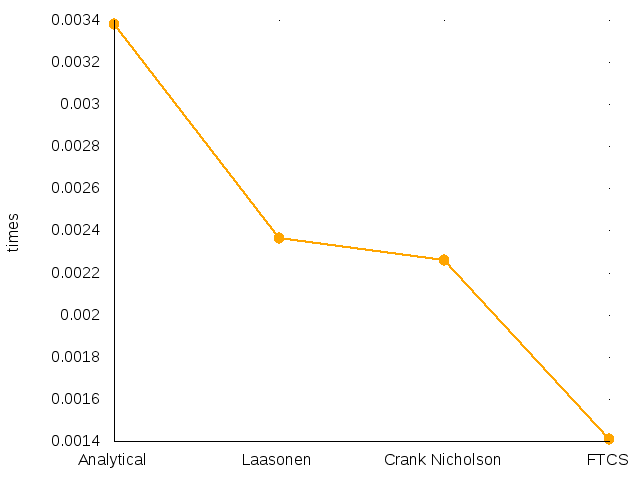
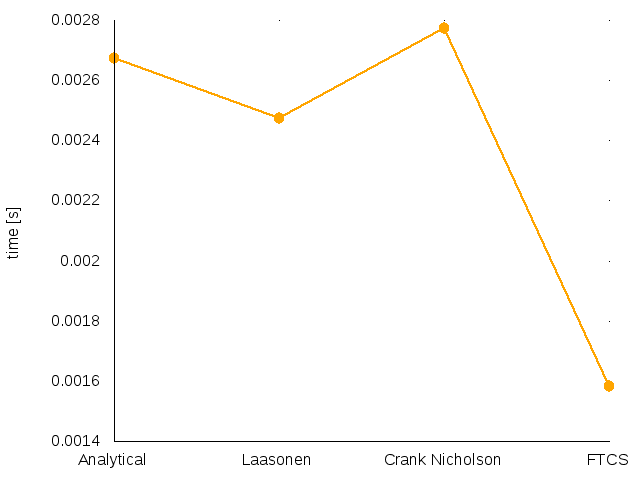
makefiled was modified, results are exported at once

diff --git a/src/main.cpp b/src/main.cpp
@@ -11,34 +11,40 @@
 */
 int main(int argc, char * argv[]) {
 
-	IOManager io_manager;
-	Problem * default_problem = new Problem(DELTA_T, DELTA_X);
-	MPImanager * mpi_manager = new MPImanager(default_problem->get_xsize() - 1);
-
+	MPImanager * mpi_manager = new MPImanager();
 	mpi_manager->initialize(&argc, &argv);
-	size_t lower = mpi_manager->lower_bound(), upper = mpi_manager->upper_bound();
 
-	Analytical * analytical = new Analytical(*default_problem);
-	FTCS * ftcs = new FTCS(*default_problem);
-	Laasonen * laasonen = new Laasonen(*default_problem);
-	CrankNicolson * crank_nicolson = new CrankNicolson(*default_problem);
+	for (size_t i = 0; i < 2; i++) {
 
-	std::vector<Method*> solutions = {analytical, laasonen, crank_nicolson, ftcs};
+		IOManager io_manager;
+		Problem * default_problem = new Problem(DELTA_T[i], DELTA_X[i]);
 
-	for (size_t index = 0; index < solutions.size(); index++) {
-		solutions[index]->compute(mpi_manager, index);
+		mpi_manager->set_size(default_problem->get_xsize() - 1);
+		size_t lower = mpi_manager->lower_bound(), upper = mpi_manager->upper_bound();
+
+		Analytical * analytical = new Analytical(*default_problem);
+		FTCS * ftcs = new FTCS(*default_problem);
+		Laasonen * laasonen = new Laasonen(*default_problem);
+		CrankNicolson * crank_nicolson = new CrankNicolson(*default_problem);
+
+		std::vector<Method*> solutions = {analytical, laasonen, crank_nicolson, ftcs};
+
+		for (size_t index = 0; index < solutions.size(); index++) {
+			solutions[index]->compute(mpi_manager, index);
+		}
+
+		if (mpi_manager->is_root()) {
+			std::cout << "Collecting results." << std::endl;
+			mpi_manager->collect_results(solutions);
+			io_manager.export_analytical(solutions[0]);
+			std::vector<Method*> methods(solutions.begin() + 1, solutions.end());
+			io_manager.export_outputs(solutions[0], methods, mpi_manager->get_number_processes());
+		} else {
+			std::cout << "Sending results." << std::endl;
+			mpi_manager->send_results();
+		}
+
 	}
-
-	/*if (mpi_manager->is_root()) {
-		std::cout << "Collecting results." << std::endl;
-		mpi_manager->collect_results(solutions);
-		io_manager.export_analytical(solutions[0]);
-		std::vector<Method*> methods(solutions.begin() + 1, solutions.end());
-		io_manager.export_outputs(solutions[0], methods, mpi_manager->get_number_processes());
-	} else {
-		std::cout << "Sending results." << std::endl;
-		mpi_manager->send_results();
-	}*/
 
 	mpi_manager->finalize();
 

diff --git a/src/io/iomanager.cpp b/src/io/iomanager.cpp
@@ -97,7 +97,7 @@ void IOManager::plot_times(std::string output_name, Method * analytical, std::ve
 
 	std::string deltat_string = double_to_string(3, methods[0]->get_deltat());
 
-	gp << "set tics scale 0; set border 3; set style line 1 lc rgb '#FFA500' lt 1 lw 2 pt 7 pi -1 ps 1.5; set clip two; set ylabel \"times\";set xlabel \"\"; set term png; set xtics (\"Analytical\" 0, \"Laasonen\" 1, \"Crank Nicholson\" 2, \"FTCS\" 3)\n";
+	gp << "set tics scale 0; set border 3; set style line 1 lc rgb '#FFA500' lt 1 lw 2 pt 7 pi -1 ps 1.5; set clip two; set ylabel \"time [s]\";set xlabel \"\"; set term png; set xtics (\"Analytical\" 0, \"Laasonen\" 1, \"Crank Nicholson\" 2, \"FTCS\" 3)\n";
 	gp << "set output \"" << output_path << "/times" << number_processes << "dt=" << deltat_string << ".png\";\n";
 	gp << "plot" << gp.file1d(times) << " notitle with linespoint ls 1" << std::endl;
 }

diff --git a/src/mpi/mpimanager.cpp b/src/mpi/mpimanager.cpp
@@ -1,15 +1,16 @@
 #include "mpimanager.h"
 
 
-MPImanager::MPImanager(size_t size) {
-	this->size = size;
-}
+MPImanager::MPImanager() {}
 
 void MPImanager::initialize(int *argc, char ** argv[]) {
 	MPI_Init(argc, argv);
 	MPI_Comm_size(MPI_COMM_WORLD, &number_processes);
 	MPI_Comm_rank(MPI_COMM_WORLD, &rank);
+}
 
+void MPImanager::set_size(size_t size) {
+	this->size = size;
 	size_t lower = lower_bound(), upper = upper_bound();
 	sub_matrices = alloc3d(SOLUTIONS_NR, (NUMBER_TIME_STEPS - 1), (upper - lower + 1));
 }
@@ -81,7 +82,7 @@ void MPImanager::send_results() {
 			}
 		}
 	}
-	
+
 	MPI_Send(buffer, count, MPI_DOUBLE, 0, rank, MPI_COMM_WORLD);
 }
 

diff --git a/src/variants/utils.h b/src/variants/utils.h
@@ -5,8 +5,8 @@
 #include <string> // string usage
 #include <vector>
 
-const double DELTA_T = 0.001; /**< Macro double. The default time step. */
-const double DELTA_X = 0.005; /**< Macro double. The default space step. */
+const double DELTA_T[2] = { 0.01, 0.001 }; /**< Macro double. The default time step. */
+const double DELTA_X[2] = { 0.05, 0.005 }; /**< Macro double. The default space step. */
 
 const std::vector<double> DELTA_T_LASSONEN = {0.01, 0.025, 0.05, 0.1}; /**< Macro double. Time steps to study in Laasonen Implicit Scheme. */
 

diff --git a/src/mpi/mpimanager.h b/src/mpi/mpimanager.h
@@ -15,7 +15,7 @@ private:
 	double *** sub_matrices;
 	
 public:
-	MPImanager(size_t size);
+	MPImanager();
 	void initialize(int *argc, char ** argv[]);
 	void finalize();
 	int get_rank();
@@ -26,6 +26,7 @@ public:
 	size_t lower_bound();
 	size_t upper_bound();
 	void add_sub_matrix(size_t i, double ** sub_matrix);
+	void set_size(size_t size);
 
 	void collect_results(vector<Method*> &solutions);
 	void send_results();

diff --git a/src/methods/implicit/implicit.cpp b/src/methods/implicit/implicit.cpp
@@ -78,7 +78,7 @@ void Implicit::compute_solution(MPImanager *mpi_manager, size_t index) {
 	mpi_manager->add_sub_matrix(index, sub_matrices);
 
 	free(r); free(x); free(y);
-	free(v); free(w); free(previous_step);
+	free(v); free(w);
 }
 
 /*

diff --git a/src/methods/explicit/explicit.cpp b/src/methods/explicit/explicit.cpp
@@ -53,8 +53,6 @@ void Explicit::compute_solution(MPImanager *mpi_manager, size_t index) {
 
 
 	mpi_manager->add_sub_matrix(index, sub_matrices);
-
-	free(previous_step);
 }
 
 
